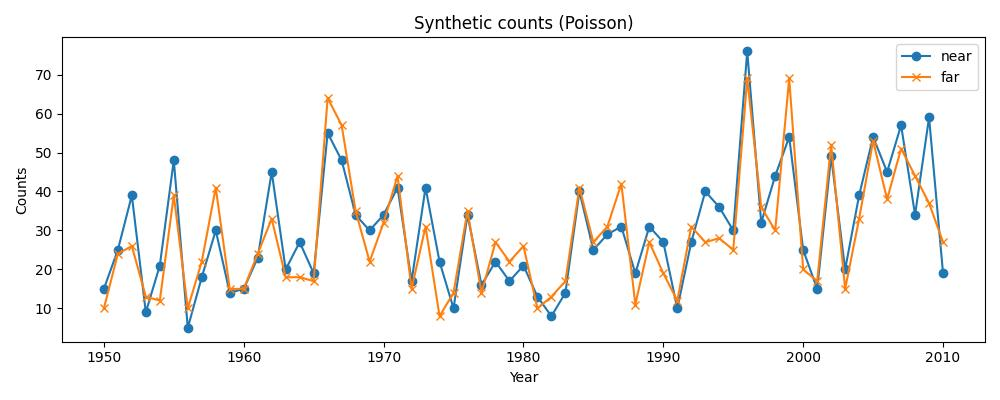
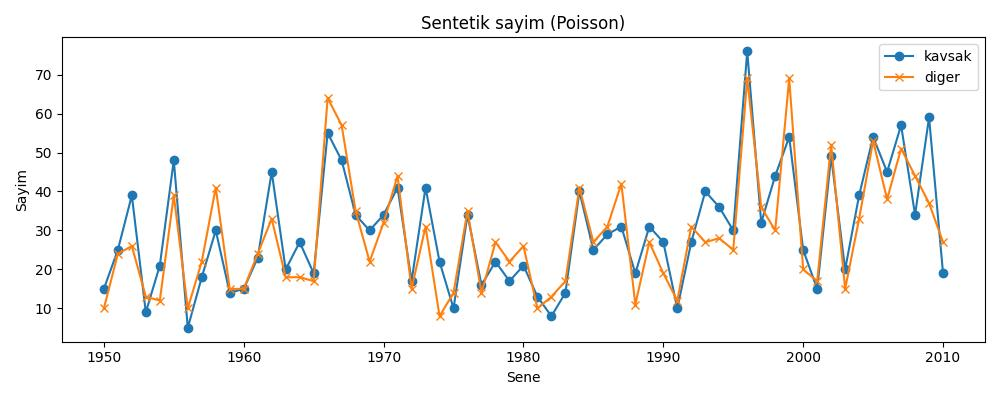
-

diff --git a/stat/stat_082_rapoi/tst1.py b/stat/stat_082_rapoi/tst1.py
@@ -67,6 +67,10 @@ with pm.Model() as model_synth:
 
     idata = pm.sample(1000, tune=1000, target_accept=0.9, return_inferencedata=True, random_seed=SEED)
 
+    graphviz = pm.model_to_graphviz(model_synth)
+    graphviz.graph_attr.update(dpi="100")
+    graphviz.render("stat_082_rapoi_03", format="jpg")
+    
 print(az.summary(idata, var_names=["alpha", "beta", "sigma_year", "rate_ratio"], round_to=3))
 
 # Plot posterior of rate ratio

diff --git a/stat/stat_082_rapoi/stat_082_rapoi.md b/stat/stat_082_rapoi/stat_082_rapoi.md
@@ -76,13 +76,118 @@ olabilir, yol şartları değişmiş olabilir.
 Bir diger problem, ayni senedeki iki olcum karsilastirirken bile, bir
 olcekleme (scaling) problemi olabilir.
 
+```python
+import pandas as pd
+import pymc as pm
+import arviz as az
+import data
 
+years = np.arange(1950, 2011)
 
+sim = data.generate_synthetic(years=years,
+                              alpha_log=3.2,
+                              beta_log=np.log(1.05),   # ~5% higher near
+                              sigma_year=0.4,
+                              obs_model="poisson",
+                              trend=data.slow_trend)
 
+df = pd.DataFrame({
+    "year": sim["years"],
+    "near": sim["near"],
+    "far": sim["far"]
+})
 
+SEED = 123
+np.random.seed(SEED)
 
+# quick plot of generated counts
+plt.figure(figsize=(10,4))
+plt.plot(df.year, df.near, label="kavsak", marker="o")
+plt.plot(df.year, df.far, label="diger", marker="x")
+plt.xlabel("Sene"); plt.ylabel("Sayim")
+plt.title("Sentetik sayim (Poisson)")
+plt.legend()
+plt.tight_layout()
+plt.savefig('stat_082_rapoi_01.jpg')
+```
 
 ![](stat_082_rapoi_01.jpg)
+
+
+```python
+def build_stacked_arrays(simdict):
+    years = np.array(simdict["years"])
+    near = np.array(simdict["near"])
+    far  = np.array(simdict["far"])
+    n_years = len(years)
+    counts = np.concatenate([near, far])
+    group = np.concatenate([np.ones(n_years, dtype=int), np.zeros(n_years, dtype=int)])
+    year_idx = np.concatenate([np.arange(n_years), np.arange(n_years)])
+    return years, counts, group, year_idx, near, far
+
+years, counts_pois, group_pois, year_idx_pois, near_arr, far_arr = build_stacked_arrays(sim)
+n_years = len(years)
+
+with pm.Model() as model_synth:
+    sigma_year = pm.HalfNormal("sigma_year", sigma=1.0)
+    year_offset = pm.Normal("year_offset", 0.0, 1.0, shape=n_years)
+    year_effect = pm.Deterministic("year_effect", year_offset * sigma_year)
+
+    alpha = pm.Normal("alpha", 0.0, 2.0)
+    beta  = pm.Normal("beta", 0.0, 1.0)
+
+    log_mu = alpha + beta * group_pois + year_effect[year_idx_pois]
+    mu = pm.math.exp(log_mu)
+
+    obs = pm.Poisson("obs", mu=mu, observed=counts_pois)
+
+    rate_ratio = pm.Deterministic("rate_ratio", pm.math.exp(beta))
+
+    idata = pm.sample(1000, tune=1000, target_accept=0.9, return_inferencedata=True, random_seed=SEED)
+
+    graphviz = pm.model_to_graphviz(model_synth)
+    graphviz.graph_attr.update(dpi="100")
+    graphviz.render("stat_082_rapoi_03", format="jpg")
+    
+print(az.summary(idata, var_names=["alpha", "beta", "sigma_year", "rate_ratio"], round_to=3))
+```
+
+```text
+                                                                                
+                              Step      Grad      Sampli…                       
+  Progre…   Draws   Diverg…   size      evals     Speed     Elapsed   Remaini…  
+ ------------------------------------------------------------------------------  
+  -------   2000    0         0.221     15        666.79    0:00:02   0:00:00   
+                                                  draws/s                       
+  -------   2000    0         0.263     15        656.74    0:00:03   0:00:00   
+                                                  draws/s                       
+  -------   2000    0         0.241     15        645.92    0:00:03   0:00:00   
+                                                  draws/s                       
+  -------   2000    0         0.253     15        625.81    0:00:03   0:00:00   
+                                                  draws/s                       
+                                                                                
+             mean     sd  hdi_3%  hdi_97%  ...  mcse_sd  ess_bulk  ess_tail  r_hat
+alpha       3.231  0.070   3.089    3.354  ...    0.002   448.966   895.281  1.013
+beta        0.047  0.034  -0.016    0.112  ...    0.001  6444.508  2903.323  1.000
+sigma_year  0.498  0.052   0.405    0.596  ...    0.001   682.152  1494.371  1.006
+rate_ratio  1.049  0.036   0.985    1.119  ...    0.001  6444.508  2903.323  1.000
+
+[4 rows x 9 columns]
+```
+
+![](stat_082_rapoi_03.jpg)
+
+```python
+# Plot posterior of rate ratio
+rr_samples = idata.posterior["rate_ratio"].values.flatten()
+plt.figure(figsize=(6,3))
+az.plot_posterior(rr_samples, hdi_prob=0.95)
+plt.axvline(np.exp(sim["beta_log"]), color="red", linestyle="--", label="true ratio")
+plt.title("Recovered rate ratio (Poisson synthetic)")
+plt.legend()
+plt.tight_layout()
+plt.savefig('stat_082_rapoi_02.jpg')
+```
 
 ![](stat_082_rapoi_02.jpg)
 
